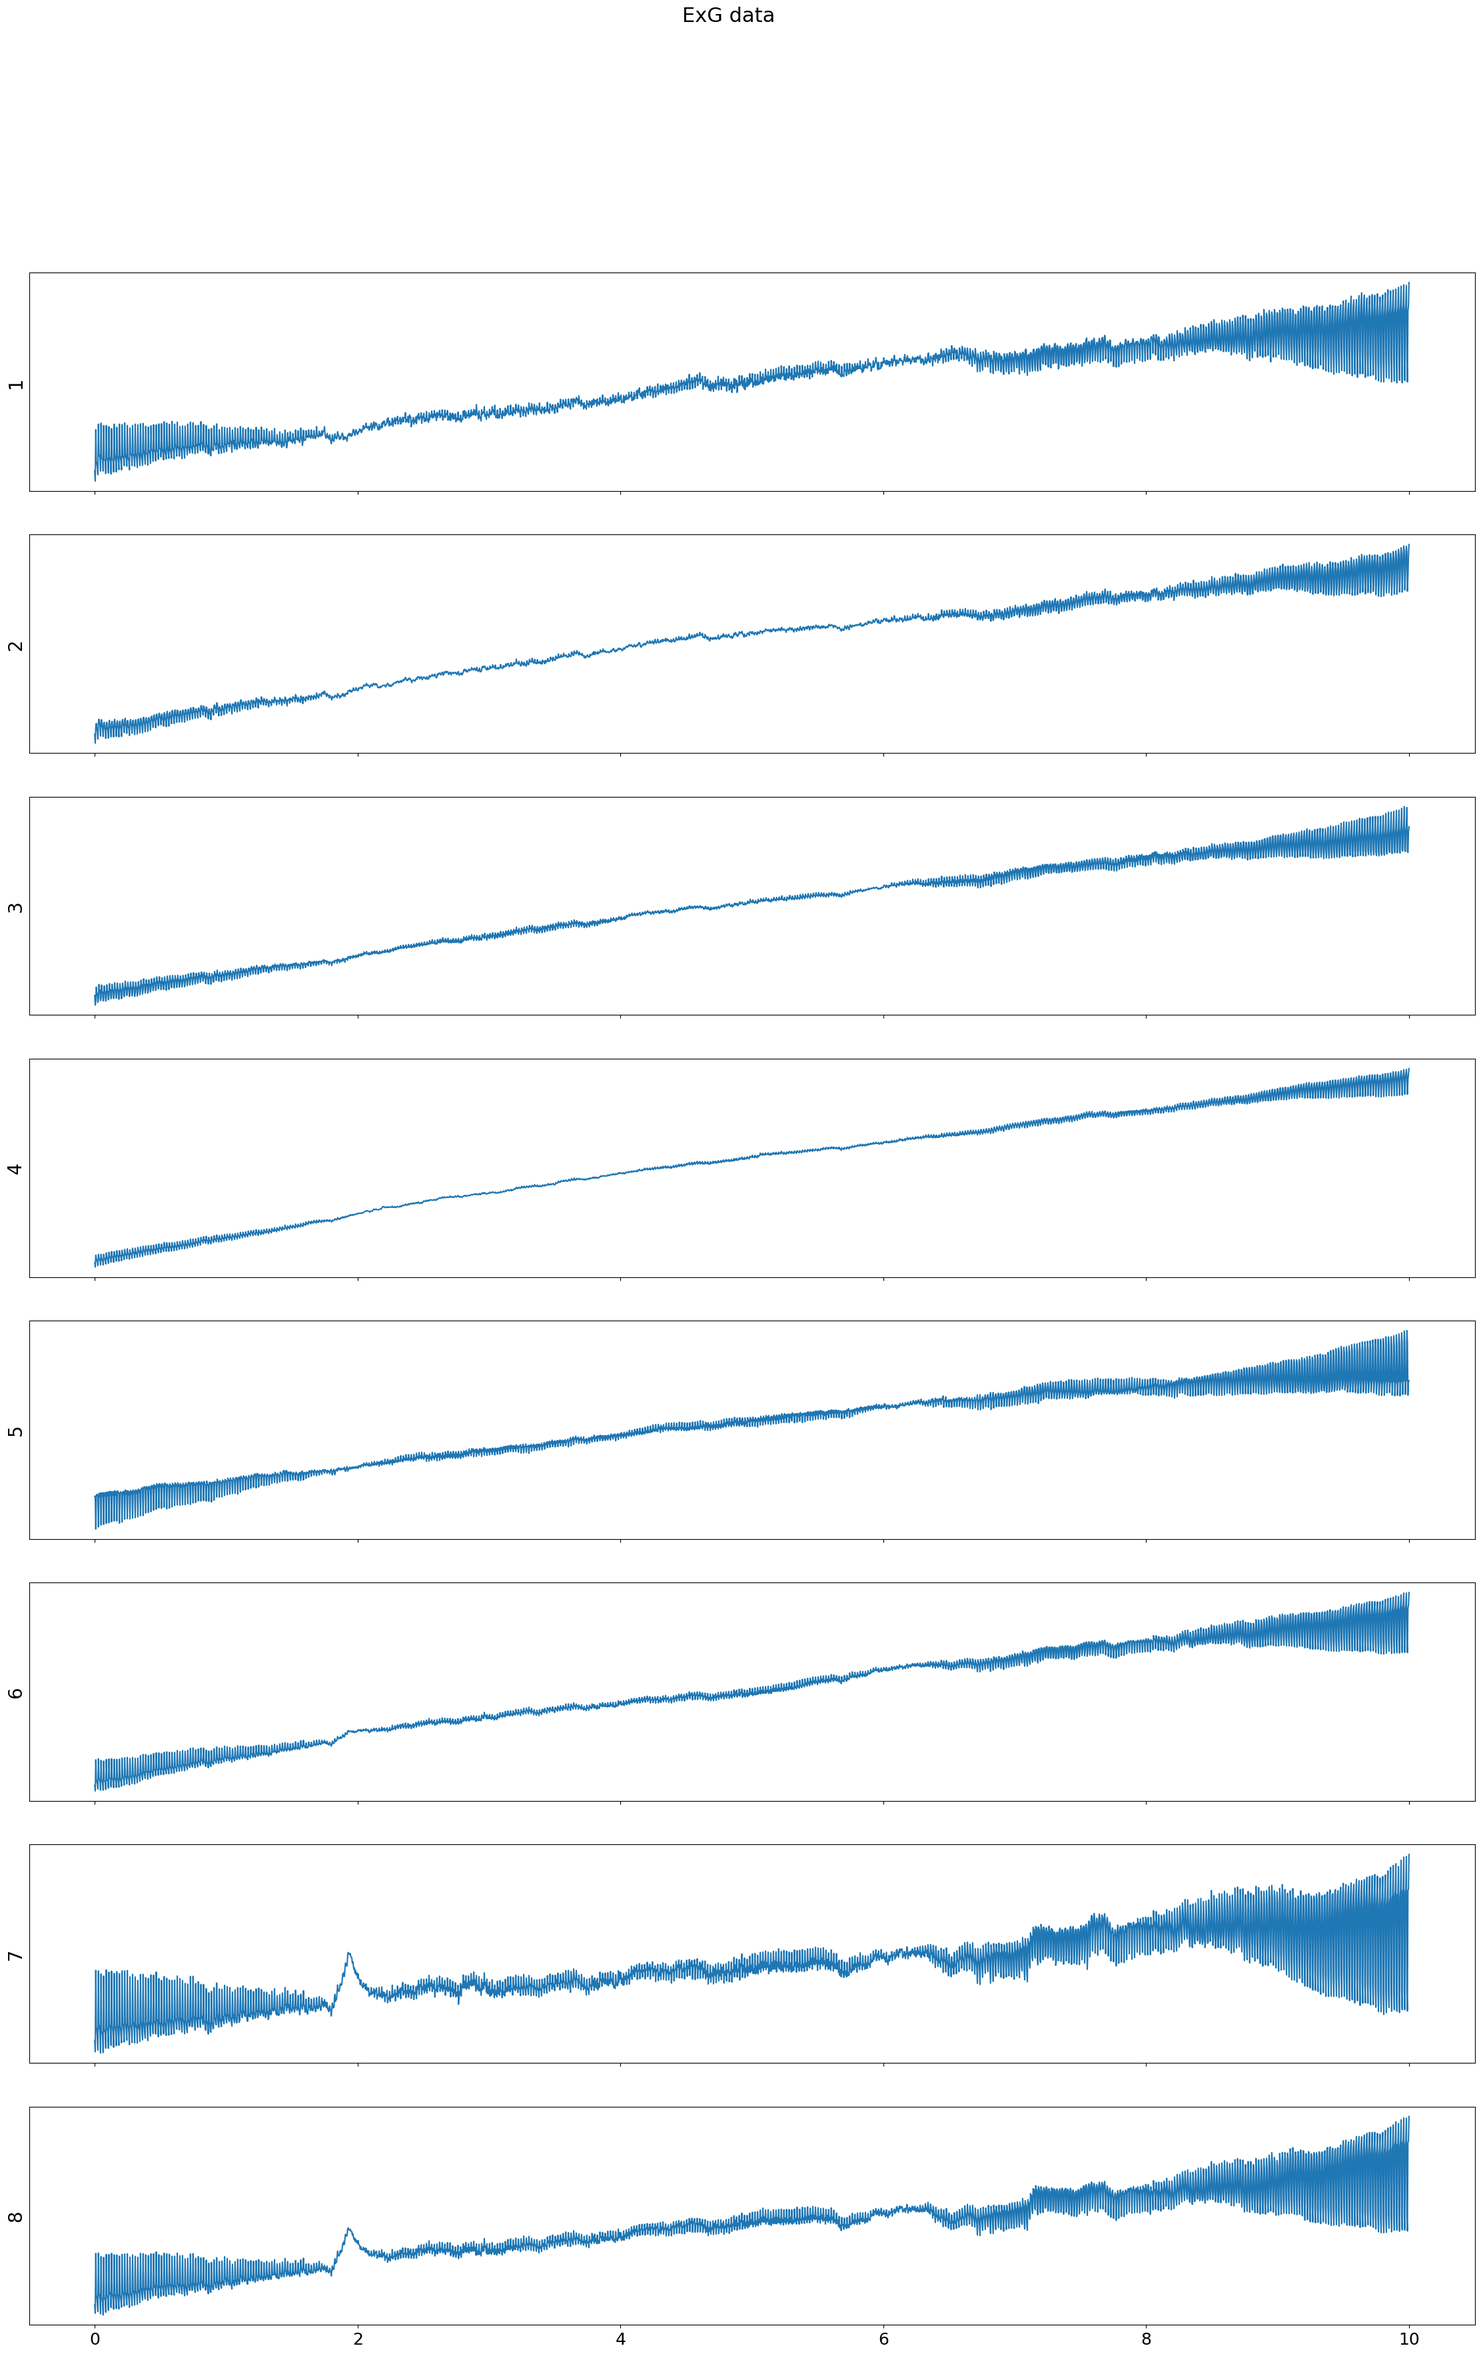
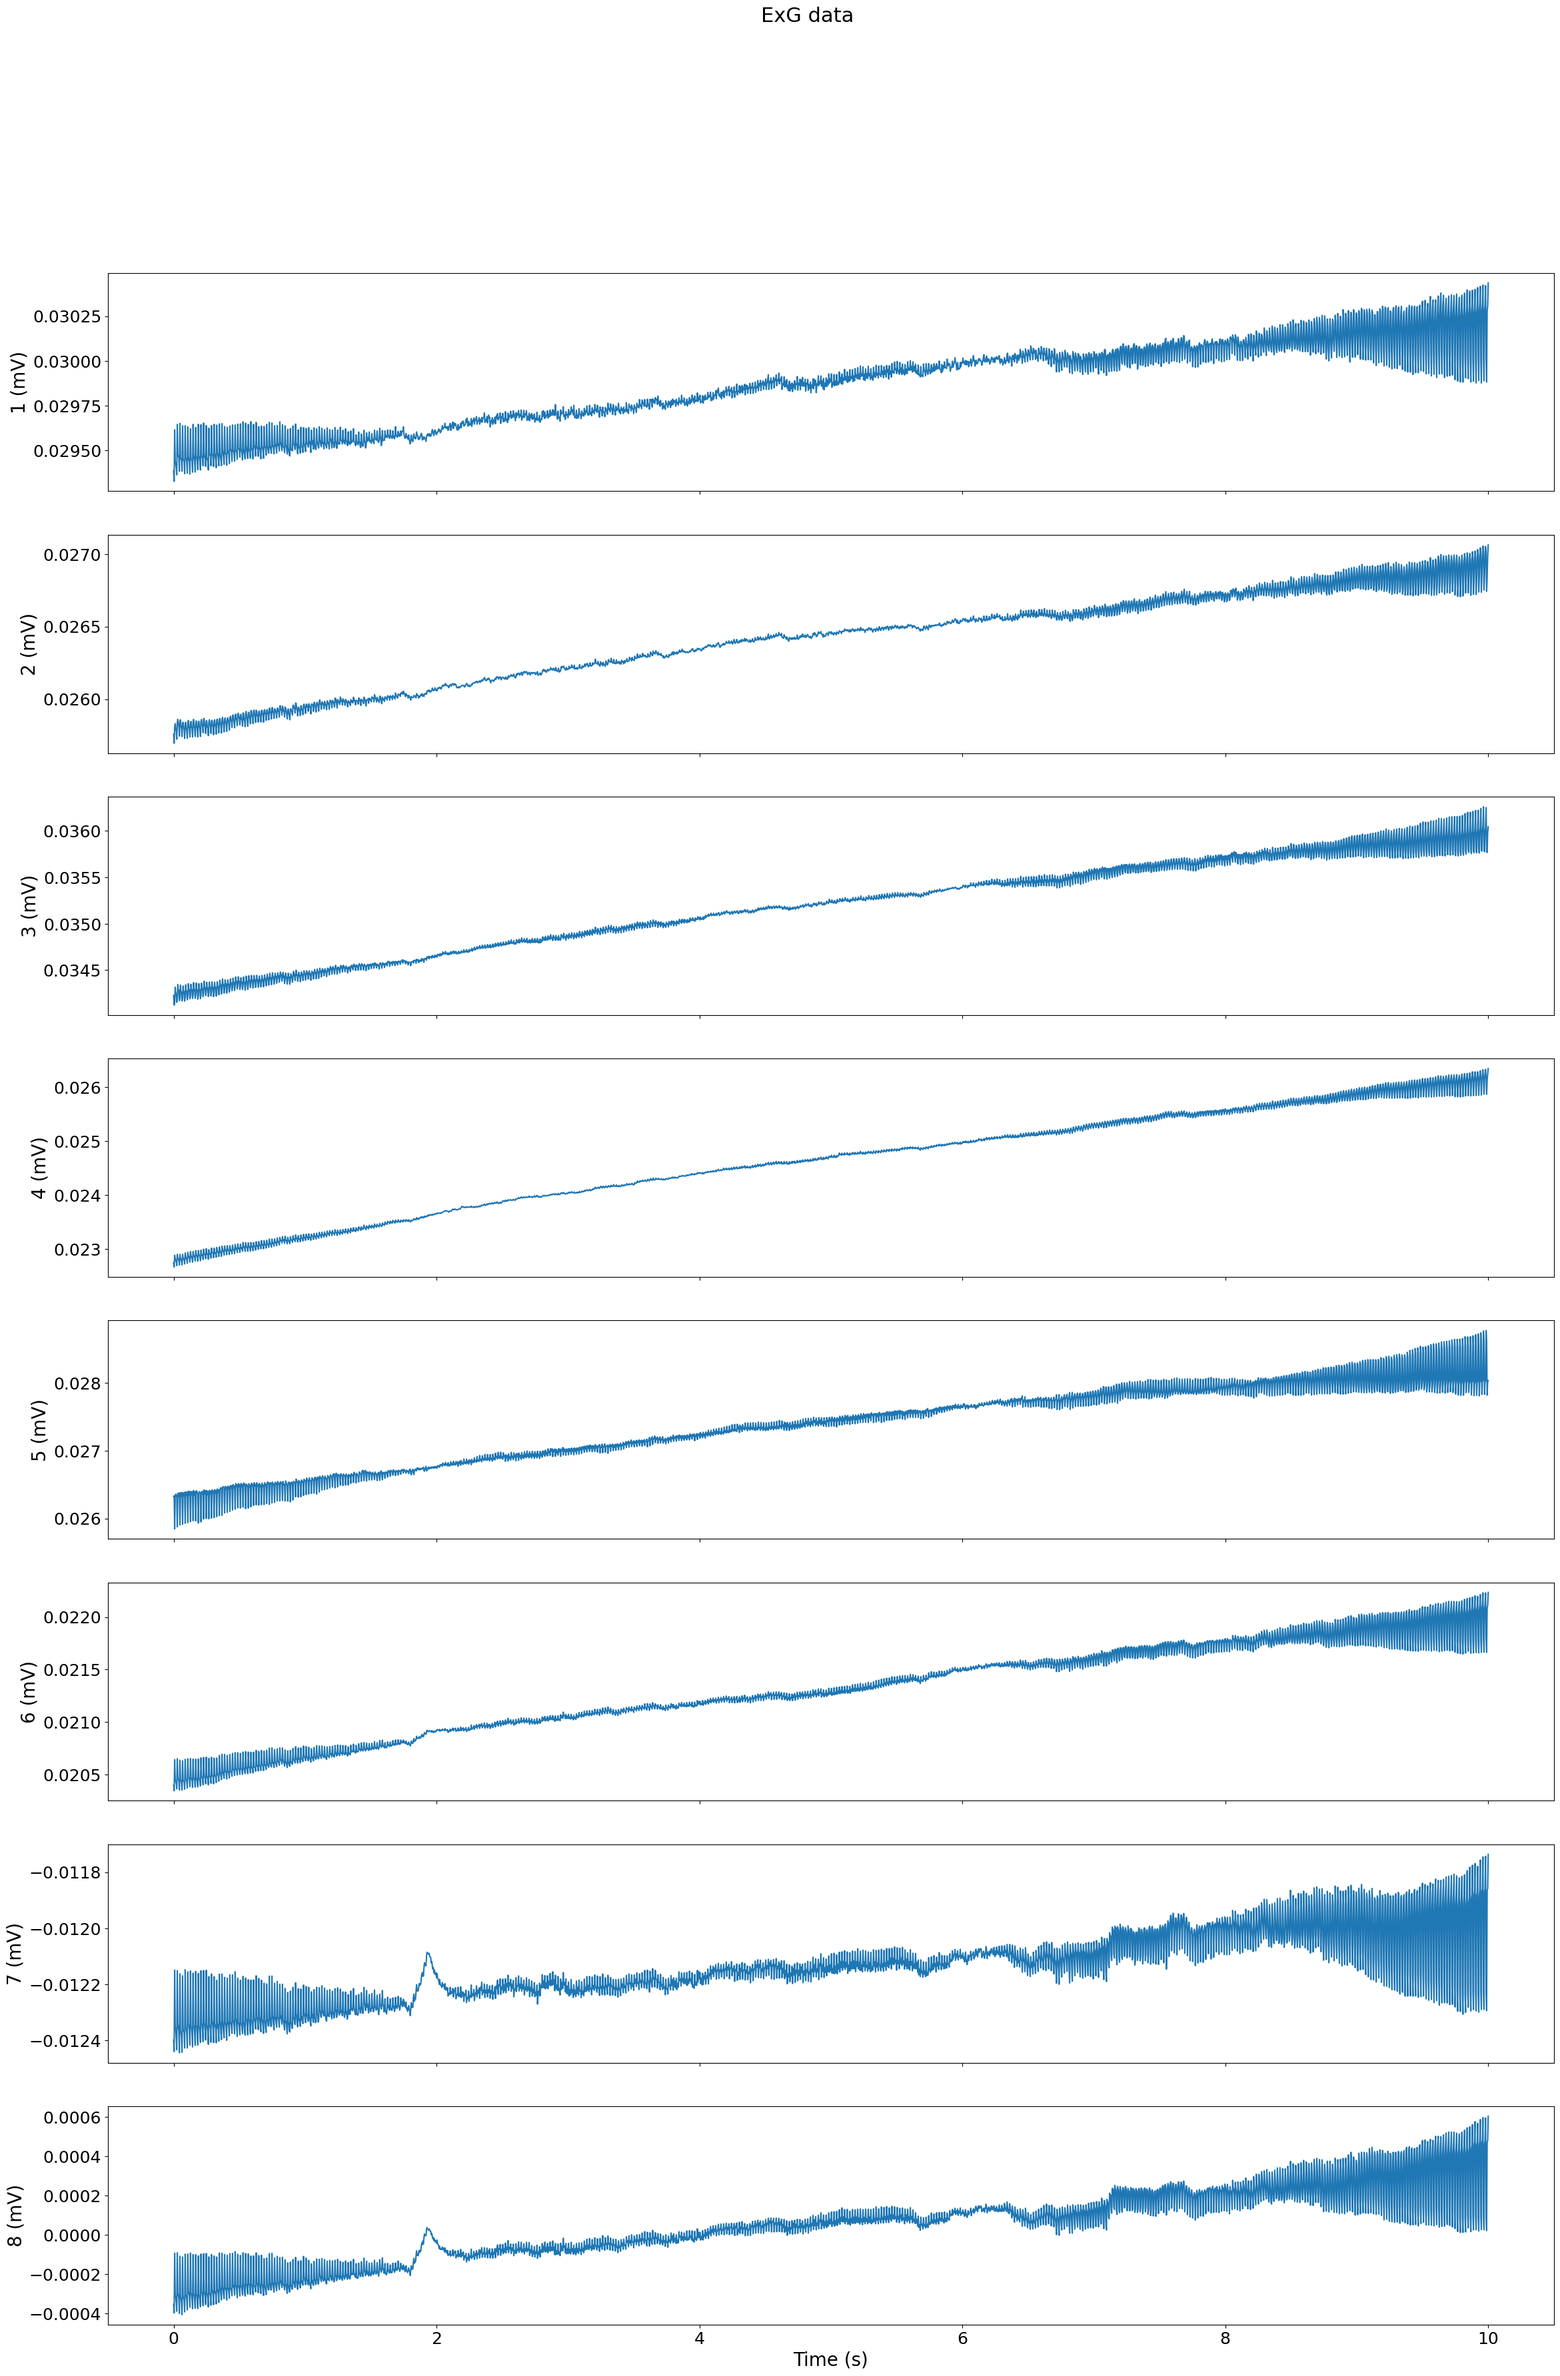
plot axis scale and units & readme edits

diff --git a/data_input.py b/data_input.py
@@ -30,31 +30,25 @@ class ExG_data():
         SMALL_SIZE = 18
         MEDIUM_SIZE = 20
         BIGGER_SIZE = 22
-        plt.rc('font', size = SMALL_SIZE)          # controls default text sizes
-        plt.rc('axes', titlesize = SMALL_SIZE)     # fontsize of the axes title
-        plt.rc('xtick', labelsize = SMALL_SIZE)    # fontsize of the tick labels
-        plt.rc('figure', titlesize = BIGGER_SIZE)  # fontsize of the figure title
-        plt.rc('axes', labelsize = MEDIUM_SIZE)    # fontsize of the x and y labels 
+        plt.rc('font', size=SMALL_SIZE)          # controls default text sizes
+        plt.rc('axes', titlesize=SMALL_SIZE)     # fontsize of the axes title
+        plt.rc('xtick', labelsize=SMALL_SIZE)    # fontsize of the tick labels
+        plt.rc('figure', titlesize=BIGGER_SIZE)  # fontsize of the figure title
+        plt.rc('axes', labelsize=MEDIUM_SIZE)    # fontsize of the x and y labels
 
-        """
-        plt.rc('ytick', labelsize = SMALL_SIZE)    # fontsize of the tick labels
-        plt.rc('legend', fontsize = SMALL_SIZE)    # legend fontsize
-        """
-        
         plt.rcParams['figure.figsize'] = [28, 5*self.n_chan]
         plt.rcParams['figure.dpi'] = 100
-        
+
         fig.suptitle('ExG data')
-        if (self.n_chan == 1):
-            ax.set_ylabel(self.ch_names[0])
-            ax.set_yticks([])
-            ax.plot(self.ExGdata[0,:], self.ExGdata[1, :])
+        if self.n_chan == 1:
+            ax.set_ylabel(f"{self.ch_names[0]} (mV)")
+            ax.plot(self.ExGdata[0, :], self.ExGdata[1, :])
+            ax.set_xlabel("Time (s)")
         else:
-            for i in range(0, self.n_chan, 1):
-                ax[i].set_ylabel(self.ch_names[i])
-                ax[i].set_yticks([])
-                ax[i].plot(self.ExGdata[0,:], self.ExGdata[i+1, :])
-        
+            for i in range(self.n_chan):
+                ax[i].set_ylabel(f"{self.ch_names[i]} (mV)")
+                ax[i].plot(self.ExGdata[0, :], self.ExGdata[i+1, :])
+            ax[-1].set_xlabel("Time (s)")
 
     
     def plot_ExGdata_psd(self):

diff --git a/README.md b/README.md
@@ -8,6 +8,10 @@ Further tests and trials on different artifacts are available in `testing.ipynb`
 Noise removal is applied in real time to the data stream from the Explore device in `acquisition_example.py`.
 
 ![Happilee Pipeline](assets/happilee_pipeline.png)
+[Figure Source](https://www.plasticityinneurodevelopmentlab.com/happilee-lowdensity-eeg)
+
+*Steps of the pipeline included in our implementation are marked in a red rectange in the figure above.*
+
 
 ## Steps of the HAPPILEE pipeline covered in this implementation:
 1. **Channel Selection**  
@@ -58,6 +62,8 @@ To use HAPPILEE with your Explore device, follow these steps:
      Example input: `50`
 
    **Online Mode**
+
+    Online mode example outputs a csv file (with the name `filtered_exg_data.csv`) containing the results of the HAPPILEE pipeline applied to the data stream from the Explore device.
 
    ```bash
    python acquisition_example.py --name <device_name>

diff --git a/evaluation.md b/evaluation.md
@@ -31,9 +31,9 @@ Visualization of the filtered data:
 
 ![Wavelet Thresholding Data](ExG_data/demo/wav-th-plot.png)
 
-5- Results
+## 5- Results
 
-A 50 Hz notch filter successfully reduced line noise, improving overall signal clarity. The combination of a 1 Hz high-pass and a 30 Hz low-pass filter further removed baseline drifts and high-frequency artifacts. Wavelet thresholding was then applied to eliminate remaining transient artifacts and enhance the overall signal quality, ultimately yielding a clean dataset well-suited for downstream analyses. The entire pipeline was successfully implemented in our setup, demonstrating its effectiveness for optimized ExG signal pre-processing.
+The pipeline was successfully implemented in our setup, demonstrating its effectiveness for optimized ExG signal pre-processing.
 
 
 
